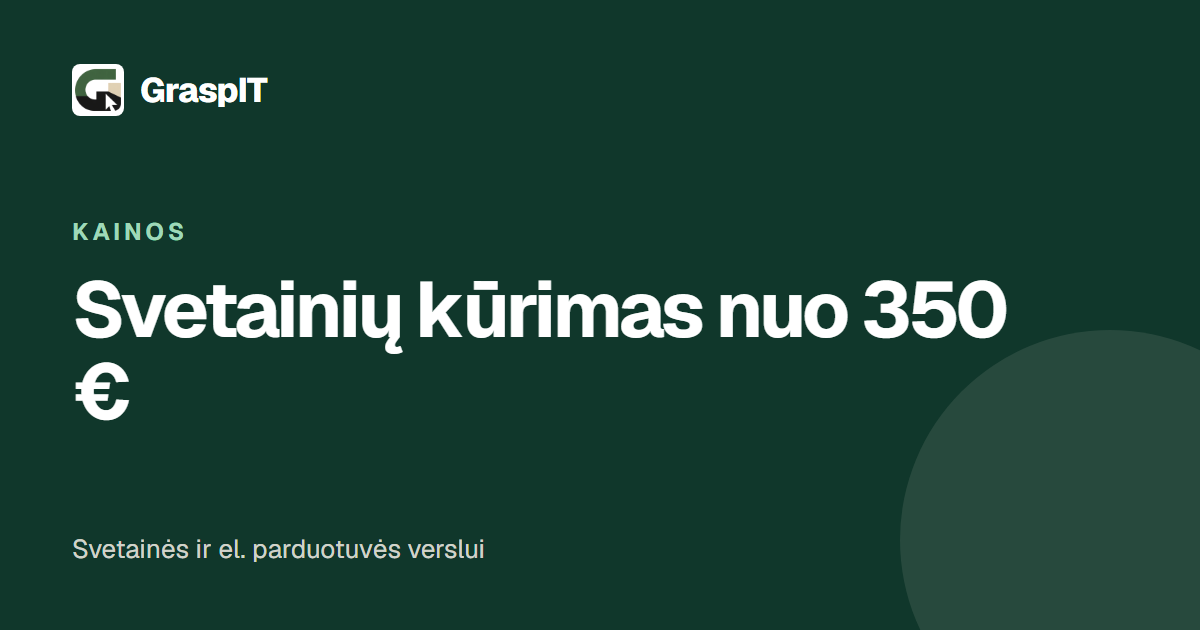
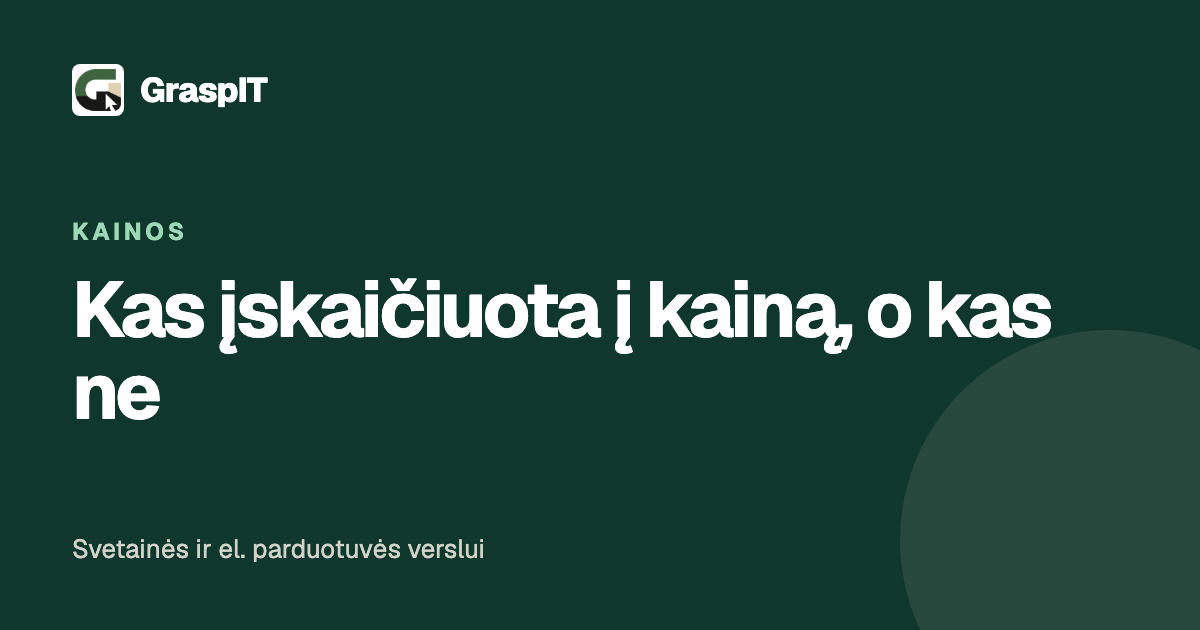
Align home text with programs direction; hover lift on blog and work cards
- Home title and description, services card and inquiry template reworded
- OG cards regenerated for home, services, pricing, process and contact
  (the last four still showed old headings)
- Blog and work cards get the same hover lift and sibling dimming

diff --git a/previews-app/src/site/ProjectGallery.tsx b/previews-app/src/site/ProjectGallery.tsx
@@ -3,7 +3,7 @@ import { caseStudies } from "./caseStudies"
 
 export function ProjectGallery() {
   return <div className="grid gap-6 md:grid-cols-2">
-    {caseStudies.map((project, index) => <article key={project.slug} className="ux-panel overflow-hidden bg-secondary">
+    {caseStudies.map((project, index) => <article key={project.slug} className="lift ux-panel overflow-hidden bg-secondary">
       <a href={`/darbai/${project.slug}/`} className="project-preview group block overflow-hidden border-b border-foreground/15 bg-white" aria-label={`${project.name}: projekto pristatymas`}><img src={project.image} alt={`${project.name} svetainės pradžios puslapis`} width={1280} height={850} loading="lazy" decoding="async" className="aspect-[16/9] max-h-56 w-full object-cover object-top motion-safe:transition-transform motion-safe:duration-500 group-hover:scale-[1.015]" /></a>
       <div className="p-6 md:p-8"><p className="ux-eyebrow text-muted-foreground">0{index + 1} / {project.type}</p><h3 className="mt-4 text-3xl font-bold tracking-tight"><a href={`/darbai/${project.slug}/`} className="inline-flex min-h-11 items-center">{project.name}</a></h3><p className="mt-3 max-w-[45ch] leading-relaxed text-muted-foreground">{project.summary}</p><div className="mt-6 flex flex-wrap justify-between gap-4 border-t border-foreground/20 pt-4"><a href={`/darbai/${project.slug}/`} className="ux-text-link">Projekto pristatymas<ArrowRight className="size-4" /></a><a href={project.url} target="_blank" rel="noopener noreferrer" className="inline-flex min-h-11 items-center gap-2 text-sm">Atverti svetainę<ArrowUpRight className="size-4" /><span className="sr-only">(naujame lange)</span></a></div></div>
     </article>)}

diff --git a/previews-app/src/site/content.ts b/previews-app/src/site/content.ts
@@ -16,10 +16,10 @@ export const pages: Record<
   { title: string; heading: string; intro: string; label: string }
 > = {
   "/": {
-    title: `Svetainių kūrimas verslui nuo ${prices.website} | GraspIT`,
+    title: "Programos, svetainės, automatizacija verslui | GraspIT",
     heading: "Kuriame ir atnaujiname svetaines verslui.",
     intro:
-      `Kuriame svetaines vietiniam paslaugų verslui nuo ${prices.website}. Padedame aiškiai pristatyti jūsų veiklą ir atnaujiname esamas svetaines. Galutinę kainą sutariame pagal poreikius.`,
+      `Dviejų žmonių studija: programos, svetainės, automatizacija. Pradedame nuo pokalbio, kainą pasakome prieš darbą. Svetainės nuo ${prices.website}.`,
     label: "Svetainių studija Lietuvoje",
   },
   "/paslaugos": {
@@ -163,7 +163,7 @@ export const services = [
   {
     href: "/paslaugos/svetaines",
     title: "Verslo svetainės",
-    text: "Kai svarbu aiškiai pristatyti paslaugas ir padėti klientui kreiptis.",
+    text: "Kai paslaugos ir kontaktai išbarstyti, o klientas turi jų ieškoti.",
     price: `nuo ${prices.website}`,
     number: "01",
   },

diff --git a/previews-app/src/site/inquiryDraft.ts b/previews-app/src/site/inquiryDraft.ts
@@ -12,7 +12,7 @@ export function draftInquiry(answers: string[], context: { example?: string; pac
   if (!completeInquiry(answers)) return ""
   const [need, preparation, timing] = answers
   const opening: Record<string, string> = {
-    website: "Sveiki, norėčiau naujos svetainės savo verslui. Joje noriu aiškiai pristatyti veiklą, paslaugas ir padėti klientams lengvai susisiekti.",
+    website: "Sveiki, norėčiau naujos svetainės savo verslui. Noriu, kad klientai matytų, ką darau, ir lengvai su manimi susisiektų.",
     shop: "Sveiki, norėčiau el. parduotuvės savo prekėms. Noriu patogaus prekių katalogo ir aiškaus pirkimo kelio. Norėčiau aptarti mokėjimo ir pristatymo galimybes.",
     redesign: "Sveiki, norėčiau atnaujinti turimą svetainę. Norėčiau kartu įvertinti jos dizainą, turinio išdėstymą bei patogumą naudotis telefonu ir sutarti, ką verta pakeisti.",
     automation: "Sveiki, norėčiau sumažinti pasikartojantį rankinį darbą. Norėčiau aptarti dabartinį procesą, naudojamus įrankius ir įvertinti, kuriuos veiksmus būtų galima automatizuoti.",

diff --git a/previews-app/src/site/Blog.tsx b/previews-app/src/site/Blog.tsx
@@ -37,7 +37,7 @@ function BlockView({ block }: { block: Block }) {
 
 function PostCard({ post }: { post: Post }) {
   return (
-    <a href={`/blogas/${post.slug}/`} className="group flex h-full flex-col overflow-hidden rounded-lg border border-foreground bg-background">
+    <a href={`/blogas/${post.slug}/`} className="lift group flex h-full flex-col overflow-hidden rounded-lg border border-foreground bg-background">
       <div className="aspect-[16/9] overflow-hidden border-b border-foreground bg-secondary">
         <img src={`/img/blog/${post.slug}-800.webp`} alt={coverAlt[post.slug] ?? ""} width={800} height={450} loading="lazy" decoding="async" className="size-full object-cover motion-safe:transition-transform motion-safe:duration-500 group-hover:scale-[1.03]" />
       </div>
